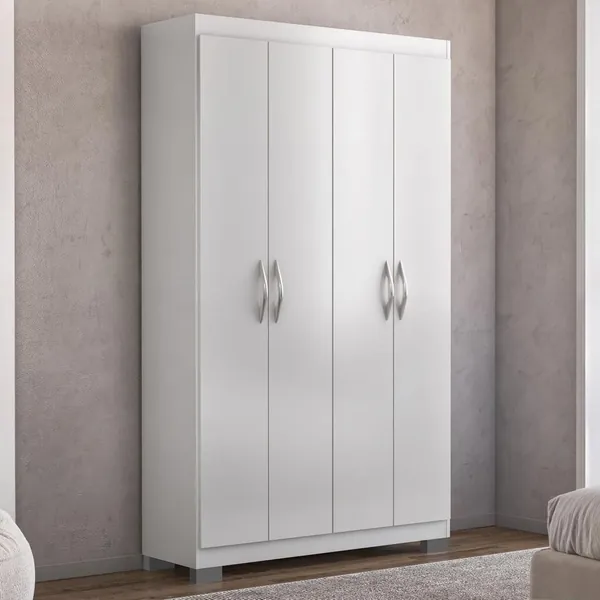
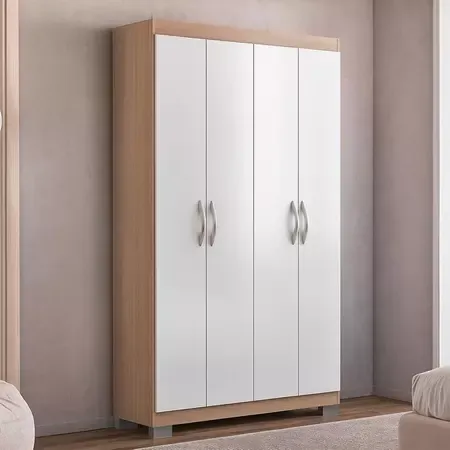
Filtro de água com uma opção e guarda-roupa 4 portas em Branco Riviera
- Filtro de água: retirada a Opção 1; fica a antiga Opção 2 com o botão "Ver na Amazon".
- Guarda-roupa 4 portas: aviso "Na loja, escolha a opção Branco Riviera" e foto da cor.

diff --git a/ESPECIFICACAO.md b/ESPECIFICACAO.md
@@ -68,14 +68,14 @@ Ordem no site (D18: Eletroportáteis por último, diferente do PDF):
 | Cozinha & Mesa | Para as receitas e os encontros | 13 |
 | Eletroportáteis | Praticidade para o dia a dia | 9 |
 
-Total: **35 itens, 38 links**. Lista completa em `dados/itens.json`. A ordem das seções no site é a ordem do `itens.json`.
+Total: **35 itens, 37 links**. Lista completa em `dados/itens.json`. A ordem das seções no site é a ordem do `itens.json`.
 
 Itens com particularidades:
 
 | Item | Particularidade |
 |---|---|
 | Box baú para cama | Duas opções (Shopee e Casas Bahia) |
-| Filtro de água | Duas opções (Amazon) |
+| Filtro de água | **Alterado:** agora tem só uma opção (a antiga Opção 2), botão "Ver na Amazon" |
 | Aparelho de jantar 30 peças | **Alterado:** agora tem só uma opção (Porto Brasil linha Roma, novo link), foto da antiga Opção 2, botão "Ver no Mercado Livre" |
 | Conjunto de sobremesa | Duas opções, "precisamos de apenas um" |
 | Toalhas de banho e rosto | "Modelo à sua escolha", duas fotos. **Alterado:** deixou de ser escolha livre; agora é o jogo Buddemeyer 4 peças no Mercado Livre, botão "Ver no Mercado Livre" (verde cheio, como os demais), R$ 218,35 |
@@ -83,8 +83,9 @@ Itens com particularidades:
 | Mixer 5 em 1 | Link substituído pelo link do produto (P6) |
 | Conjunto de formas | O card avisa: "Na loja, escolha a opção **Kit 12 Formas**" (D17) |
 | Cabeceira de cama | Cor pré-definida: o card avisa "Na loja, escolha a opção **Bege**" (D27) |
+| Guarda-roupa 4 portas | Cor pré-definida: o card avisa "Na loja, escolha a opção **Branco Riviera**" |
 
-**Regra para itens com duas opções:** todos (Box baú, Filtro, Sobremesa) são **um único presente**. Marcar qualquer opção marca o item inteiro.
+**Regra para itens com duas opções:** todos (Box baú, Sobremesa) são **um único presente**. Marcar qualquer opção marca o item inteiro.
 
 ### 2.6 Itens novos (não estão no PDF)
 Depois das três seções, nesta ordem:
@@ -214,7 +215,7 @@ Valores no campo `precos` do `itens.json`. Em **negrito**, o valor usado no Pix 
 | Mesa com cadeiras (Espanha Yescasa, novo link) | **R$ 682,50 no Pix** (R$ 769,02 em outros meios) |
 | Televisão (Samsung 50" Mini LED 4K M75H, Fast Shop) | **R$ 2.569,00 no Pix** (R$ 2.732,98 em outros meios) |
 | Armário de cozinha (Completa 293 cm Rustic Emilly Madesa) | **R$ 840,44 no Pix** (R$ 940,69 em outros meios) |
-| Filtro de água | Opção 1: **R$ 484,40**<br>Opção 2: **R$ 483,92** |
+| Filtro de água | **R$ 483,92** |
 | Ventilador de coluna com controle | **R$ 238,99** |
 | Toalhas de banho e rosto | **R$ 218,35** (Mercado Livre não mostra preço diferente no Pix) |
 | **Cozinha & Mesa** | |
@@ -298,7 +299,7 @@ Conferidos em 23/10/2026 no Firebase Emulator Suite, com testes automatizados (3
 
 - [x] Título da página: "Chá de casa nova Heitor e Ana".
 - [x] Página única com banner, textos, "Como participar?", agradecimento e assinatura idênticos ao PDF.
-- [x] As 3 seções com os 35 itens, fotos e os 38 links do `itens.json` (reconferido após as mudanças da seção 11, incluindo o Pix das toalhas com R$ 218,35).
+- [x] As 3 seções com os 35 itens, fotos e os 37 links do `itens.json` (reconferido após as mudanças da seção 11, incluindo o Pix das toalhas com R$ 218,35).
 - [x] Cores e fontes da seção 4; layout funcional no celular.
 - [x] Marcar presente exige nome; o item passa a "Já presenteado" para todos.
 - [x] Quem marcou consegue desmarcar no mesmo aparelho; o casal desmarca qualquer item.
@@ -340,3 +341,8 @@ Fotos novas em `assets/produtos/` (PNG original + WebP de 600 px): `guarda-roupa
 
 Item removido (depois):
 - **Armário para escritório**, retirado da lista a pedido do casal. Fotos mantidas em `assets/produtos/` (`armario-escritorio`), mas fora do `itens.json`. Total atual: **35 itens, 38 links** (Casa & Móveis 13, Cozinha & Mesa 13, Eletroportáteis 9).
+
+## 12. Mudanças de 24/10/2026
+
+- **Filtro de água:** retirada a Opção 1 (R$ 484,40). Ficou só a antiga Opção 2 (R$ 483,92), com o botão "Ver na Amazon" e sem a nota "Amazon · duas opções", como os demais itens de uma opção. Total atual: **35 itens, 37 links**.
+- **Guarda-roupa 4 portas:** cor pré-definida **Branco Riviera** (campo `variacao`, mesmo aviso da Cabeceira: "Na loja, escolha a opção Branco Riviera"). Link igual; foto trocada pela da cor Riviera (`guarda-roupa-4-portas`, PNG + WebP).

diff --git a/DOCUMENTACAO-TECNICA.md b/DOCUMENTACAO-TECNICA.md
@@ -376,7 +376,7 @@ Estrutura:
 }
 ```
 
-Hoje: Casa & Móveis 13, Cozinha & Mesa 13, Eletroportáteis 9 (35 itens, 38 links).
+Hoje: Casa & Móveis 13, Cozinha & Mesa 13, Eletroportáteis 9 (35 itens, 37 links).
 
 Regras:
 - Valor do Pix do item = `precoPix` se existir, senão `valor` (`valorPix` em `catalogo.js`). Item sem nenhum preço não mostra "Presentear via Pix".
